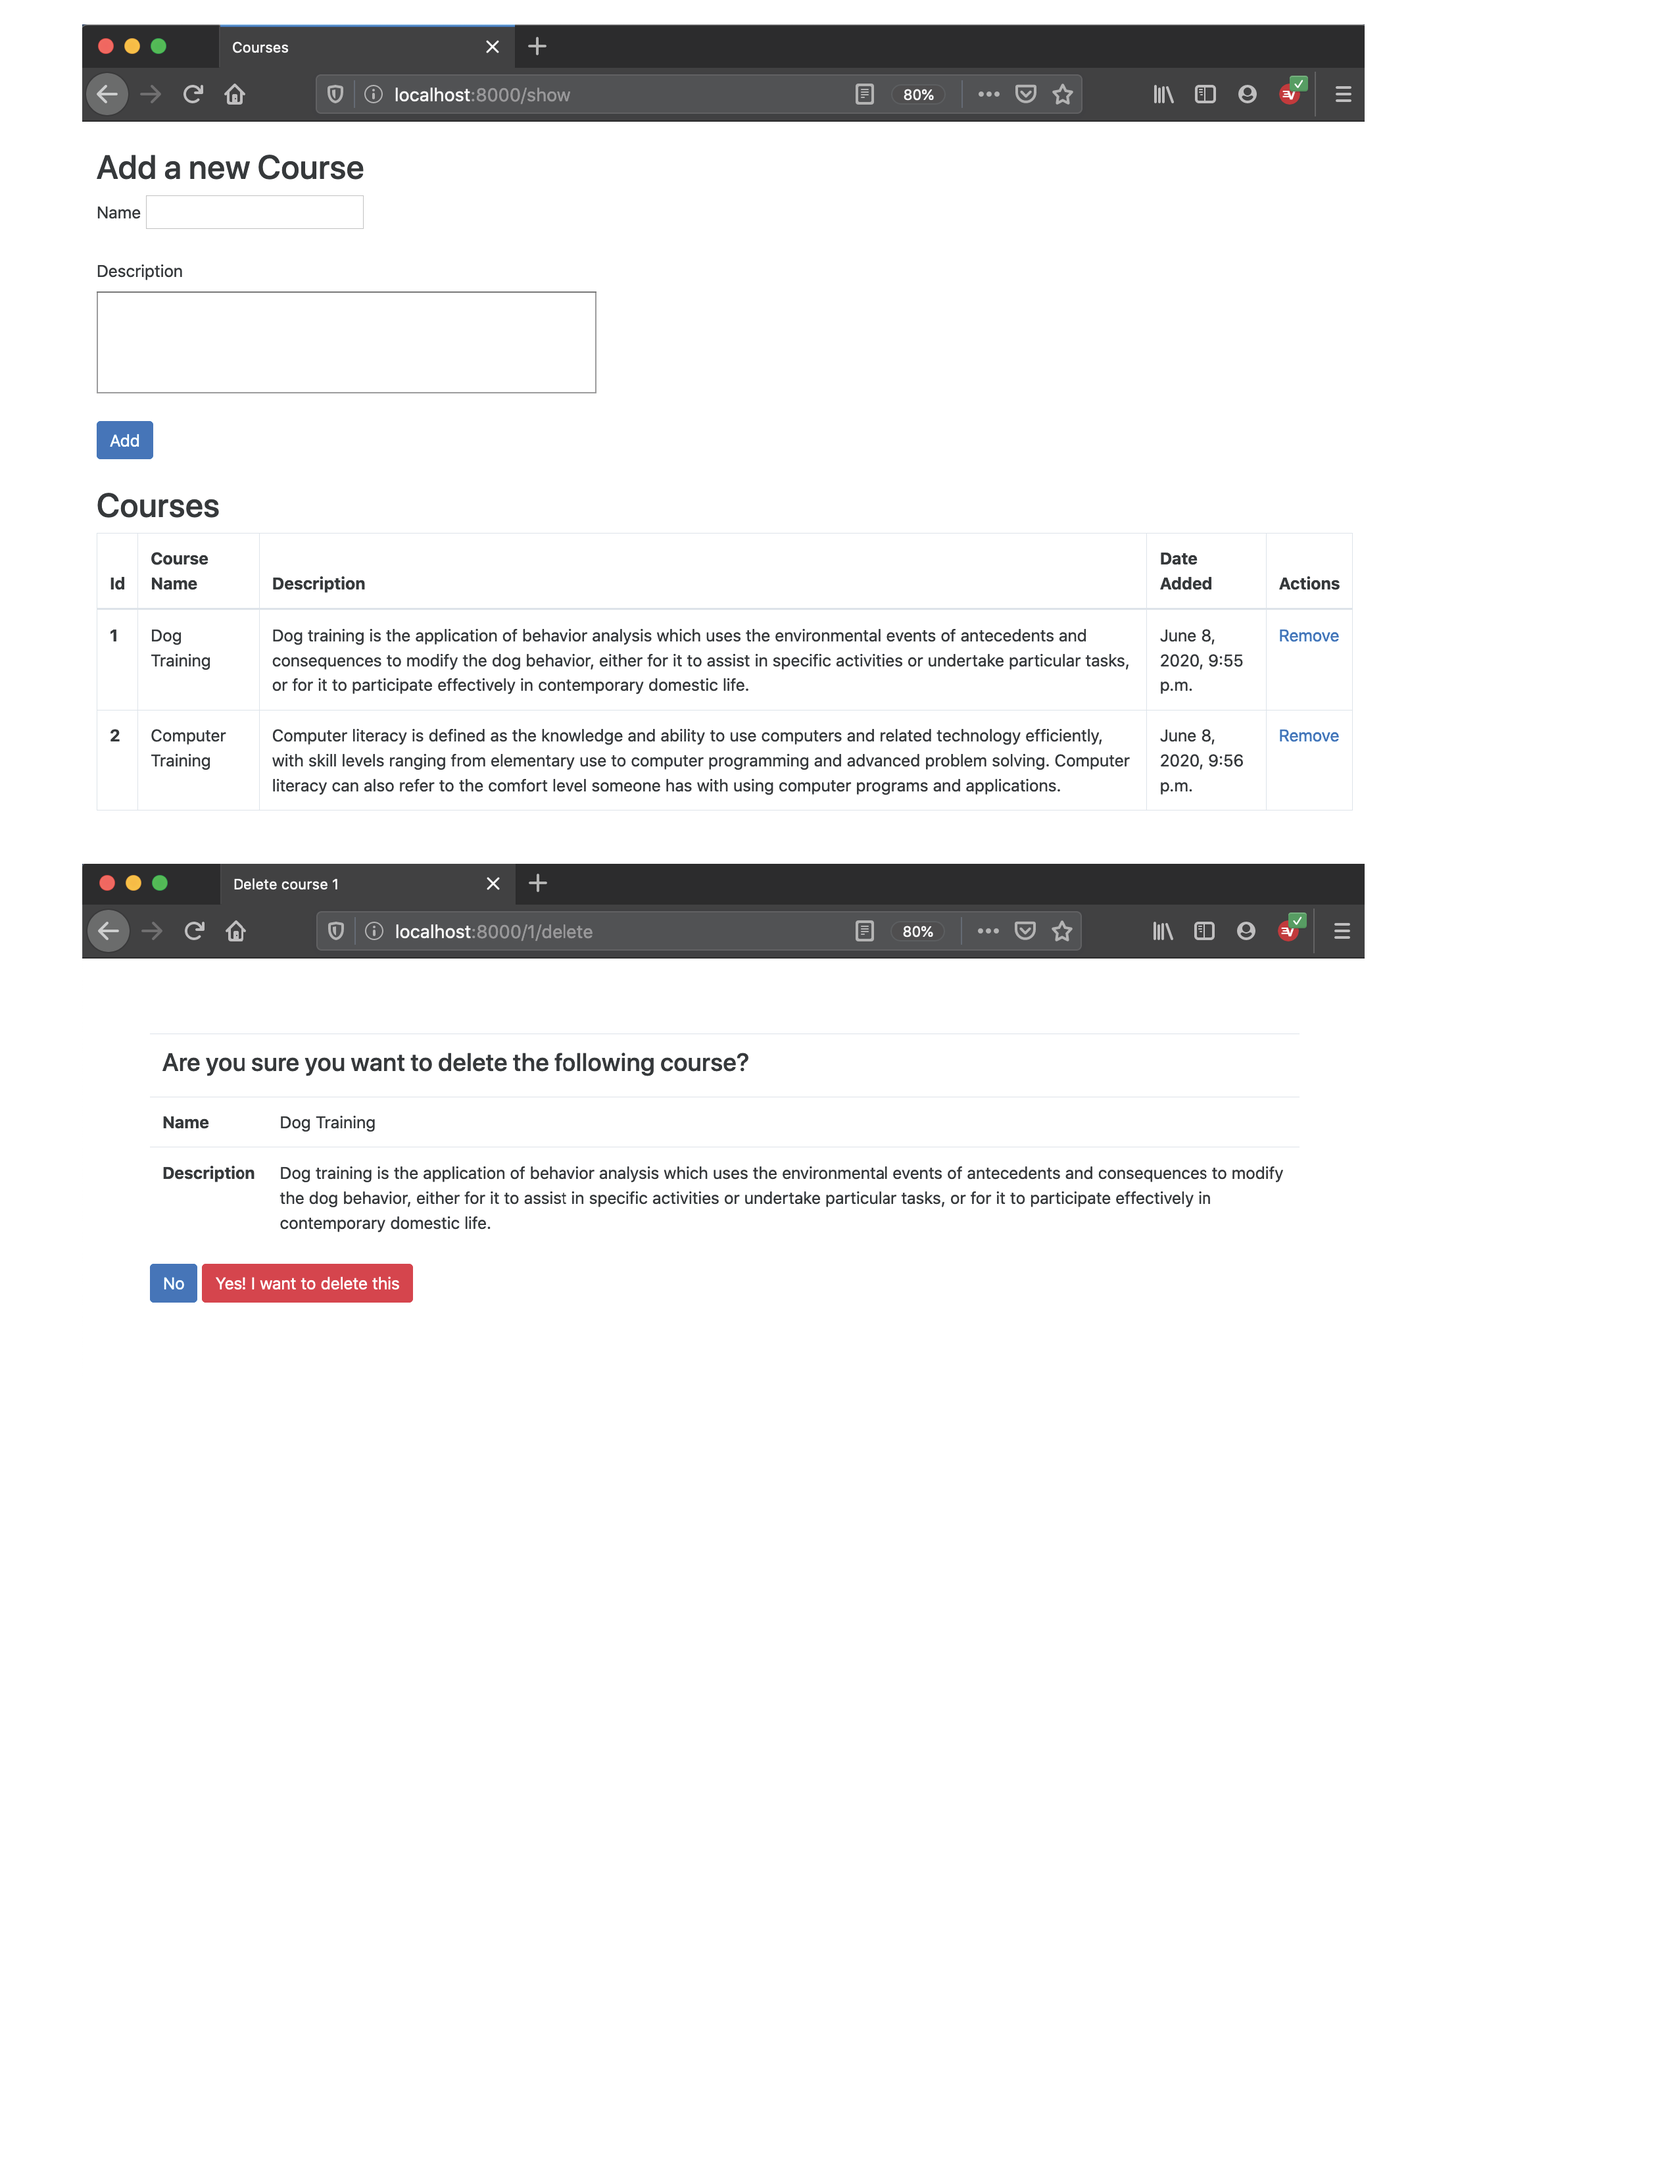
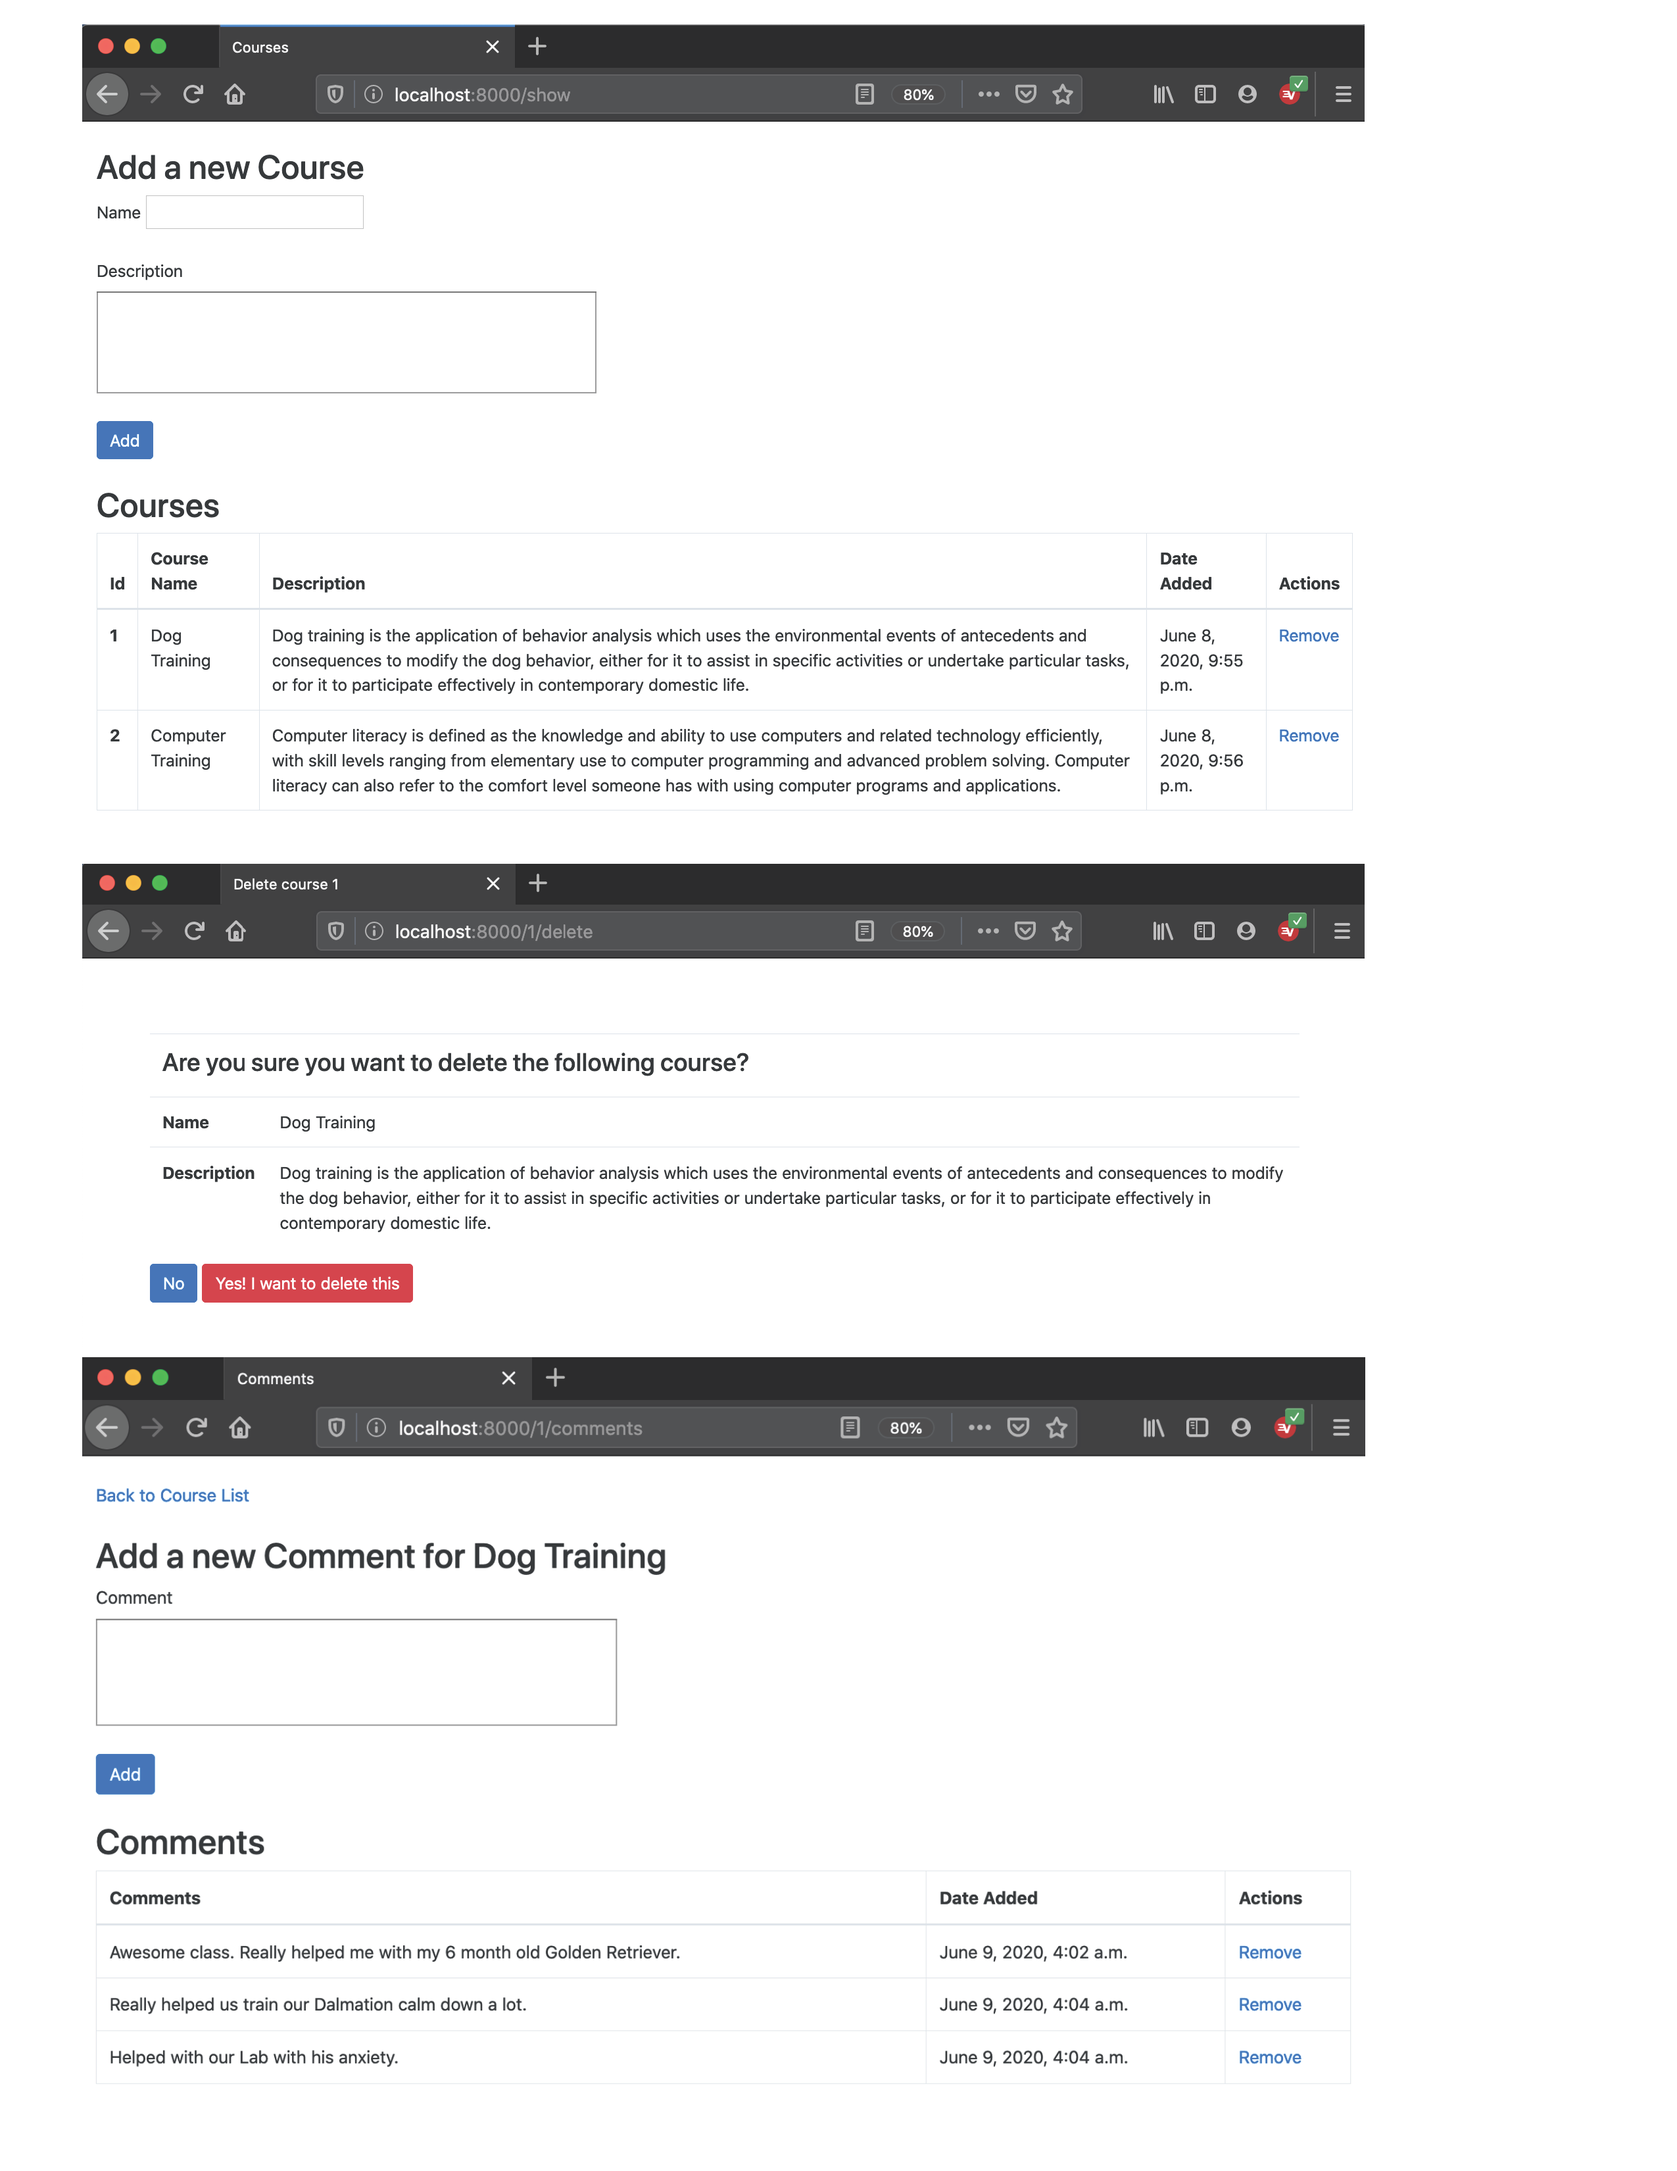
Add support for deleting comments. Updated finished project image.

diff --git a/python_stack/django/django_intro/courses_project/courses_app/templates/comments.html b/python_stack/django/django_intro/courses_project/courses_app/templates/comments.html
@@ -48,7 +48,7 @@
                         <th scope="row">{{ comment.id }}</th>
                         <td>{{ comment.text }}</td>
                         <td>{{ comment.created_at}}</td>
-                        <td><a href="/{{ comment.course.id }}/delete">Remove</a></td>
+                        <td><a href="/{{ comment.id }}/delete_comment">Remove</a></td>
                     </tr> {% endfor %} </tbody>
             </table>
         </div>

diff --git a/python_stack/django/django_intro/courses_project/courses_app/views.py b/python_stack/django/django_intro/courses_project/courses_app/views.py
@@ -75,19 +75,18 @@ def show_comments(request, id):
 
 def add_comment(request, id):
     this_course = Course.objects.get(id=id)
-    print('this_course.id', this_course.id)
     this_comment = Comment(text=request.POST['comment'])
     this_comment.course_id = id
-    print('this_comment.text=', this_comment.text)
     this_comment.save()
-    print('comment saved')
     this_course.comment = this_comment
-    print('comment assignemd to the course')
     this_course.save()
-    print('course resaved')
-
-    # Blank session values after we successfully add a record.
-    #request.session['comment'] = ''
 
     print('about to redirect to comments')
     return redirect('/'+str(this_course.id)+'/comments')
+
+
+def delete_comment(request, id):
+    this_comment = Comment.objects.get(id=id)
+    course_id = this_comment.course_id
+    Comment.objects.filter(id=id).delete()
+    return redirect('/'+str(course_id)+'/comments')

diff --git a/python_stack/django/django_intro/courses_project/courses_app/urls.py b/python_stack/django/django_intro/courses_project/courses_app/urls.py
@@ -9,4 +9,5 @@ urlpatterns = [
     path('<id>/destroy', views.destroy_course),
     path('<id>/comments', views.show_comments),
     path('<id>/new_comment', views.add_comment),
+    path('<id>/delete_comment', views.delete_comment),
 ]
